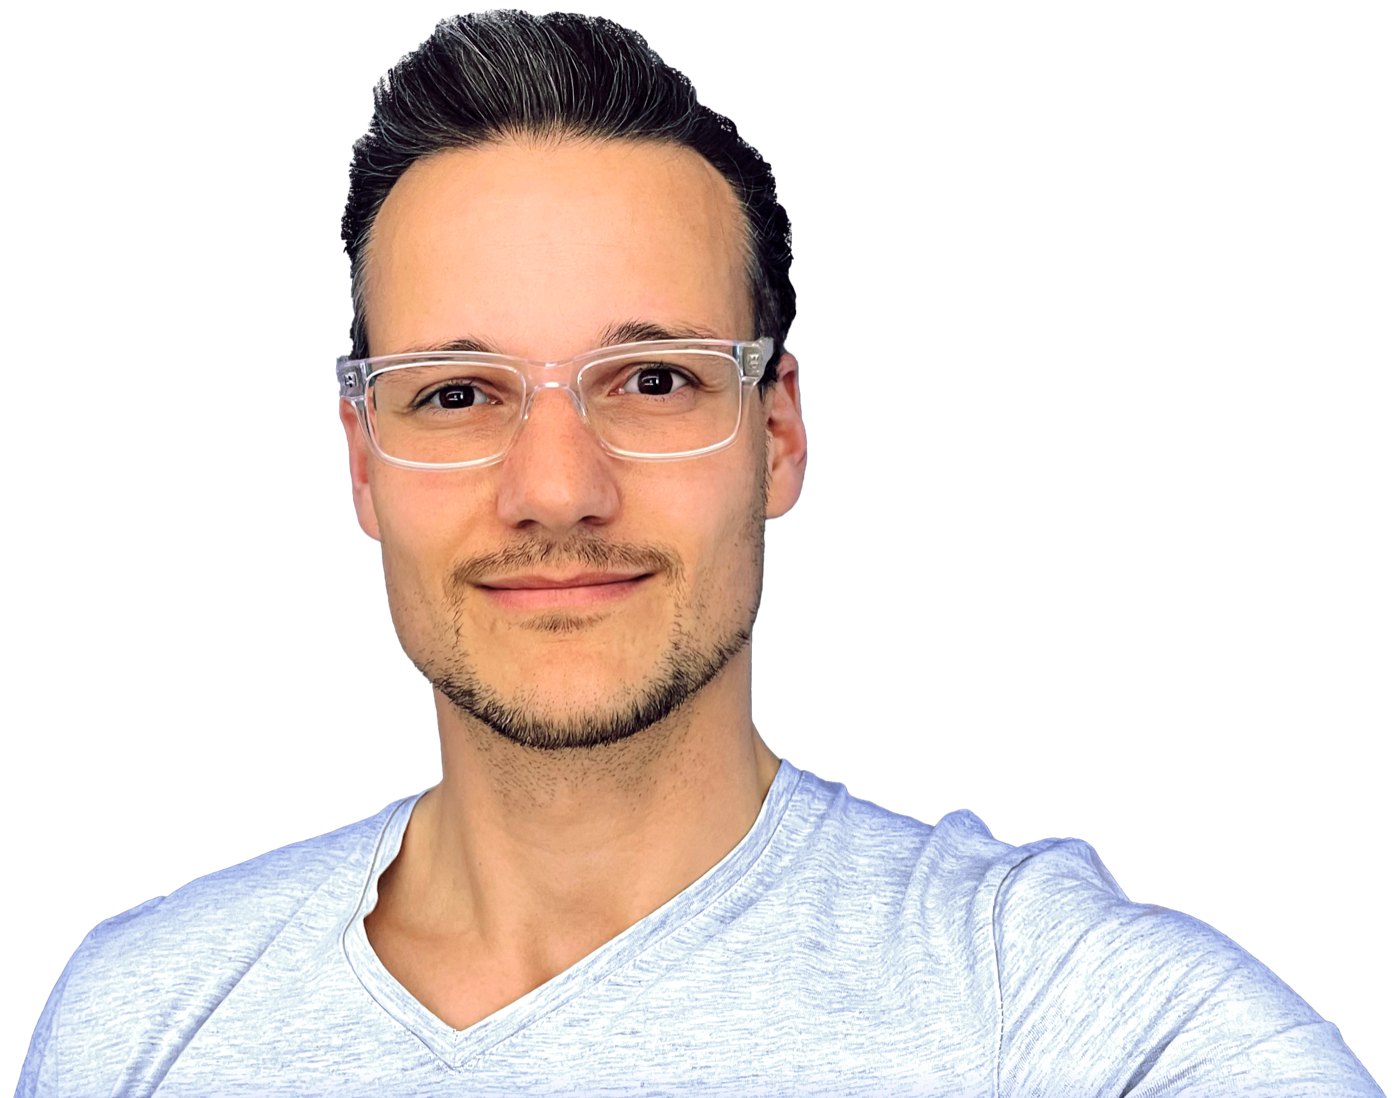
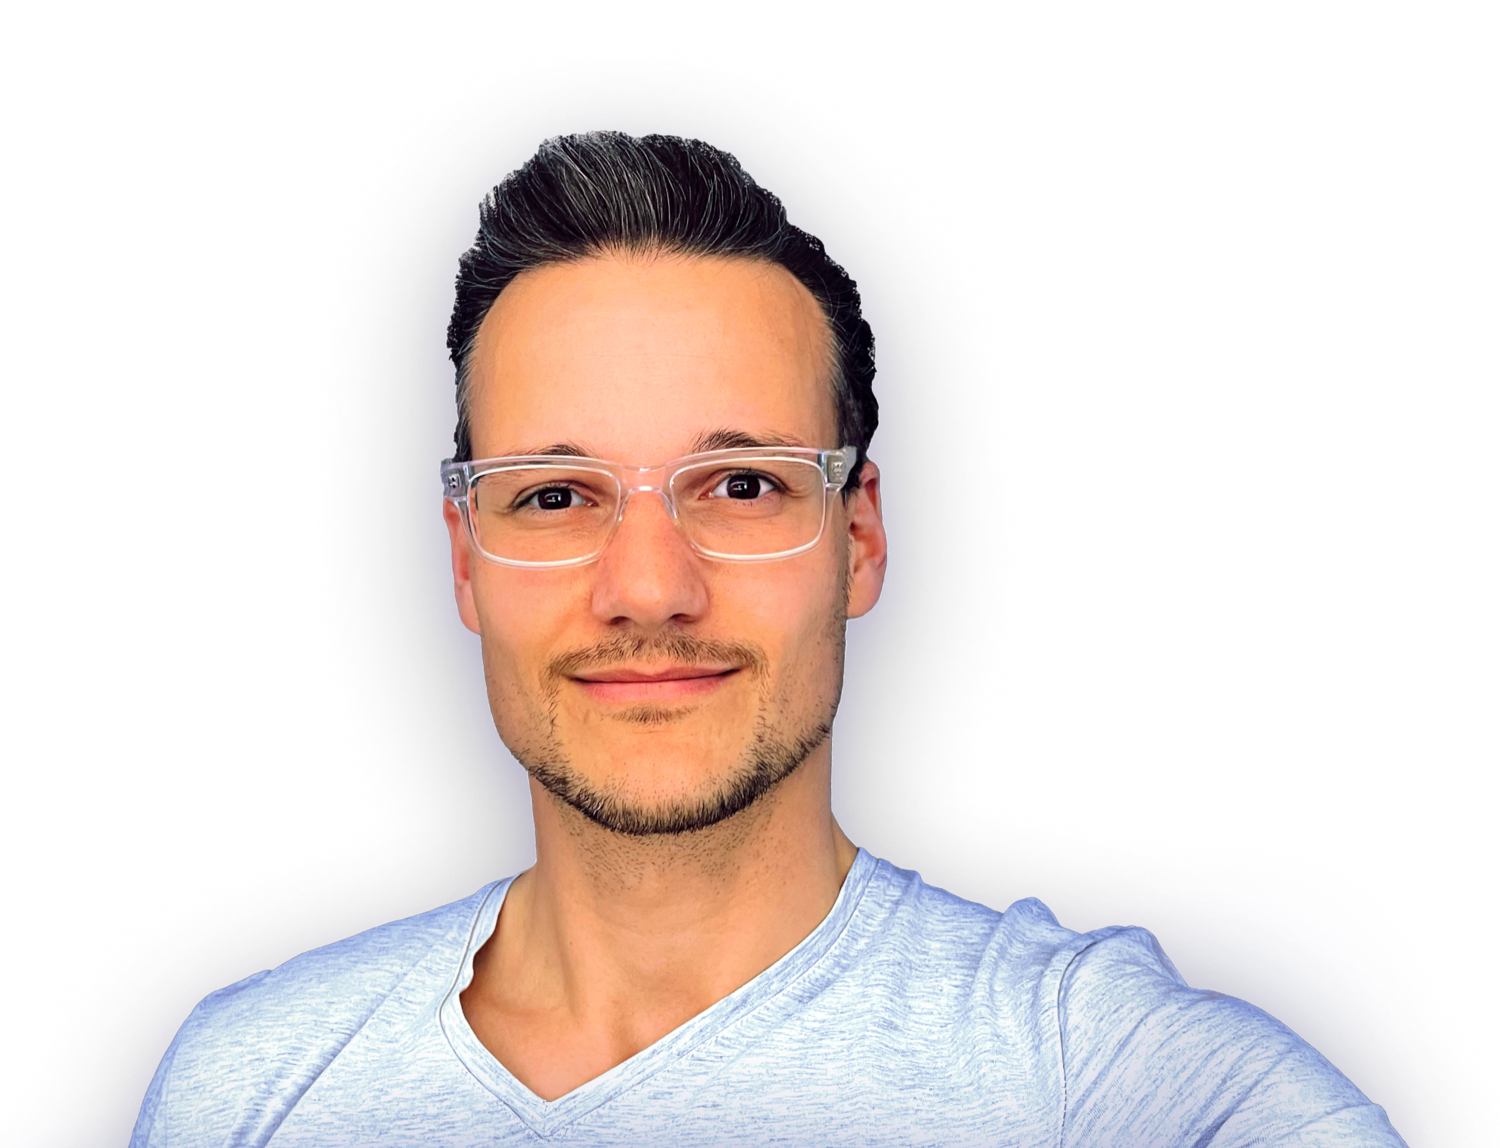
fix(v2): new portrait asset, permanent darkener, nav underline animation
Portrait: swapped to Hero_Home_Personal-Pic3 (has the drop shadow), resampled
2524px/4.6MB -> 1500px/1.8MB. It carries ~11% transparent padding at the top
and ~9% on the left, so placement is computed from the solid person bounds, not
the file bounds. Rotated 3.5deg like the Figma, which also grows the bounding
box - both accounted for. Measured against the sketch: person top 20.9% (target
20), left 49.9% (51). Now runs to the bottom of the hero so the shoulders stay
visible in the gaps beside the panel's rounded corners.

Darkener moved out of the copy block into the background layer. It was inside
the faded group, so it was invisible at rest and then appeared mid-fade at full
strength. It now sits behind the dot grid and never fades - only content
recedes, the background stays put.

Nav: underline animates between page buttons (it was pinned to index 0 and
never wired to clicks). Bar slightly darker with a stronger shadow. Logo lines
tightened 4px, title now "Digital Product Designer".

Type: switched the nav, logo and audience labels to numeric weights on the
variable Outfit axis so weight can be tuned finely rather than snapping between
the named steps.

Accents: LinkedIn green is a true circle that scales uniformly, moved 60px up
and right, 30% larger, opacity 70%. Competence green widened, dropped lower,
opacity 75%.

Secondary CTA outline to 45% white and 1px.

Fade groups confirmed as three: experience row, then headline+subline+CTAs as
[…]

diff --git a/components/hero-v2.tsx b/components/hero-v2.tsx
@@ -123,9 +123,10 @@ function useScrollFade() {
 export function HeroV2() {
   const [config, setConfig] = useState<DotGridConfig>(DOT_GRID_DEFAULTS);
   const [audience, setAudience] = useState(0);
+  const [navActive, setNavActive] = useState(0);
   const [variant, setVariant] = useState(0);
 
-  const nav = useSlidingUnderline<HTMLElement>(0);
+  const nav = useSlidingUnderline<HTMLElement>(navActive);
   const aud = useSlidingUnderline<HTMLDivElement>(audience);
   const { panelRef, register } = useScrollFade();
 
@@ -148,18 +149,27 @@ export function HeroV2() {
 
         {/* Content-tracked accents. Blurred ellipses like the Figma layer stack,
             positioned inside the 1200 column so they stay behind the elements
-            they belong to at any aspect ratio. */}
+            they belong to at any aspect ratio. Sits before the dot grid in the
+            DOM, so the grid draws on top — including over the darkener. */}
         <div className="pointer-events-none absolute inset-0 flex justify-center overflow-hidden">
           <div className="relative h-full w-full max-w-[1200px] px-8">
-            {/* Figma "Accent Linkedin" — behind the tile, up and right of it */}
+            {/* Figma "Accent Linkedin" — a circle, not an ellipse, so it keeps
+                its shape at any ratio. Up and right of the tile. */}
             <div
-              className="absolute right-[-3%] top-[-16%] h-[46vh] w-[26%] rounded-full"
-              style={{ background: "rgba(12,208,150,0.85)", filter: "blur(110px)" }}
+              className="absolute right-[-3%] top-[-16%] aspect-square w-[34%] -translate-y-[60px] translate-x-[60px] rounded-full"
+              style={{ background: "rgba(12,208,150,0.70)", filter: "blur(120px)" }}
             />
-            {/* Figma "Accent KPIs" — width of the competence row */}
+            {/* Figma "Accent KPIs" — carries the width of the competence row */}
             <div
-              className="absolute bottom-[70px] left-16 h-[22vh] w-[460px] max-w-[48%] rounded-full"
-              style={{ background: "rgba(9,222,159,0.93)", filter: "blur(100px)" }}
+              className="absolute bottom-[10px] left-10 h-[24vh] w-[680px] max-w-[62%] rounded-full"
+              style={{ background: "rgba(9,222,159,0.75)", filter: "blur(110px)" }}
+            />
+            {/* Content darkener. Lives here rather than inside the copy block so
+                it never takes part in the scroll fade — the background must stay
+                constant while only the content recedes. */}
+            <div
+              className="absolute left-10 top-1/2 h-[62%] w-[72%] -translate-y-1/2 rounded-full"
+              style={{ background: "rgba(19,7,56,0.8)", filter: "blur(90px)" }}
             />
           </div>
         </div>
@@ -172,13 +182,18 @@ export function HeroV2() {
             face. Head reads ~32% of the hero there, which puts this image at
             ~60% of hero height with the hair starting ~27% down. Full aspect,
             no side crop; bleeds right and is cut at the bottom by the panel. */}
-        <div className="pointer-events-none absolute inset-x-0 top-[27%] hidden h-[60%] justify-center lg:flex">
+        <div className="pointer-events-none absolute inset-x-0 bottom-0 top-[17%] hidden justify-center lg:flex">
           <div className="relative w-full max-w-[1200px] px-8">
+            {/* Runs to the bottom of the hero so the shoulders stay visible in
+                the gaps beside the panel's rounded top corners. Rotated 3.5deg
+                like the Figma, which pulls more of the shoulder in on the right
+                and keeps the neckline out from under the panel. */}
             {/* eslint-disable-next-line @next/next/no-img-element */}
             <img
               src="/portrait.png"
               alt="Benjamin Erxleben"
-              className="absolute right-[-16%] top-0 h-full w-auto max-w-none select-none object-contain"
+              className="absolute right-[-22%] top-0 h-full w-auto max-w-none select-none object-contain"
+              style={{ transform: "rotate(3.5deg)", transformOrigin: "bottom right" }}
             />
           </div>
         </div>
@@ -187,17 +202,17 @@ export function HeroV2() {
           <header
             className="relative flex h-[66px] shrink-0 items-center justify-between rounded-[16px] border border-white/20 px-[17px] backdrop-blur-[50px]"
             style={{
-              background: "rgba(19, 7, 56, 0.10)",
-              boxShadow: "0 0 24px rgba(19, 7, 56, 0.20)",
+              background: "rgba(19, 7, 56, 0.18)",
+              boxShadow: "0 2px 32px rgba(19, 7, 56, 0.30)",
             }}
           >
             <a href="#" className={`flex items-center gap-[18px] pl-0.5 ${focus}`}>
               {/* eslint-disable-next-line @next/next/no-img-element */}
               <img src="/logo.svg" alt="" aria-hidden className="h-8 w-[46px] brightness-0 invert" />
-              <span className="hidden flex-col gap-1.5 leading-none sm:flex">
-                <span className="text-[17px] font-medium leading-none">Benjamin Erxleben</span>
-                <span className="text-[16px] font-normal leading-none text-white/50">
-                  Senior Product Designer
+              <span className="hidden flex-col gap-0.5 leading-none sm:flex">
+                <span className="text-[17px] font-[520] leading-none">Benjamin Erxleben</span>
+                <span className="text-[16px] font-[380] leading-none text-white/50">
+                  Digital Product Designer
                 </span>
               </span>
             </a>
@@ -215,8 +230,10 @@ export function HeroV2() {
                   key={item.label}
                   data-underline-item
                   href={item.href}
+                  onClick={() => setNavActive(i)}
+                  aria-current={navActive === i ? "page" : undefined}
                   className={`flex h-full items-center text-[18px] uppercase leading-none tracking-[0.16em] transition-colors ${focus} ${
-                    i === 0 ? "text-white" : "text-white/35 hover:text-white/70"
+                    navActive === i ? "font-[520] text-white" : "text-white/35 hover:text-white/70"
                   }`}
                 >
                   {item.label}
@@ -251,7 +268,9 @@ export function HeroV2() {
                     onClick={() => setAudience(i)}
                     aria-pressed={audience === i}
                     className={`flex h-full items-center transition-colors ${focus} ${
-                      audience === i ? "text-white" : "text-white/35 hover:text-white/70"
+                      audience === i
+                        ? "font-[560] text-white"
+                        : "font-[430] text-white/35 hover:text-white/70"
                     }`}
                   >
                     {a.label}
@@ -263,13 +282,6 @@ export function HeroV2() {
 
             {/* Headline, subline and CTAs fade as one group */}
             <div ref={register} className="relative flex max-w-[626px] flex-col gap-10">
-              {/* Darkener bound to this block, so it always sits under the copy */}
-              <div
-                aria-hidden
-                className="pointer-events-none absolute -inset-x-[32%] -inset-y-[75%] -z-10 rounded-full"
-                style={{ background: "rgba(19,7,56,0.8)", filter: "blur(90px)" }}
-              />
-
               <div className="flex flex-col gap-8">
                 <h1 className="flex items-center gap-1.5 text-[clamp(2.25rem,4.6vw,3.5rem)] font-medium leading-none tracking-[-0.01em] text-white/[0.45] text-balance">
                   {copy.headline.lead}
@@ -306,7 +318,7 @@ export function HeroV2() {
 
                 <a
                   href="#contact"
-                  className={`group relative inline-flex h-[46px] items-center gap-2.5 overflow-hidden rounded-[8px] border-[1.5px] border-white bg-white/[0.01] px-5 text-[20px] font-medium text-white backdrop-blur-[14px] transition-[transform,background-color] duration-200 hover:-translate-y-0.5 hover:bg-white/15 active:translate-y-0 active:bg-white/25 ${focus}`}
+                  className={`group relative inline-flex h-[46px] items-center gap-2.5 overflow-hidden rounded-[8px] border border-white/45 bg-white/[0.01] px-5 text-[20px] font-medium text-white backdrop-blur-[14px] transition-[transform,background-color,border-color] duration-200 hover:-translate-y-0.5 hover:border-white/70 hover:bg-white/15 active:translate-y-0 active:bg-white/25 ${focus}`}
                   style={{ boxShadow: "0 8px 50px rgba(19, 7, 56, 0.20)" }}
                 >
                   <span
